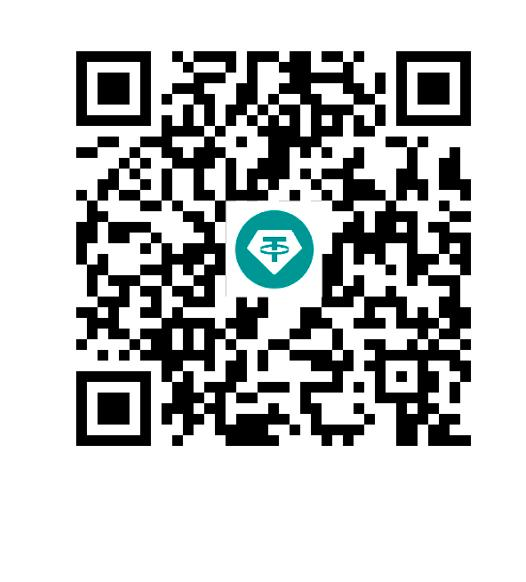
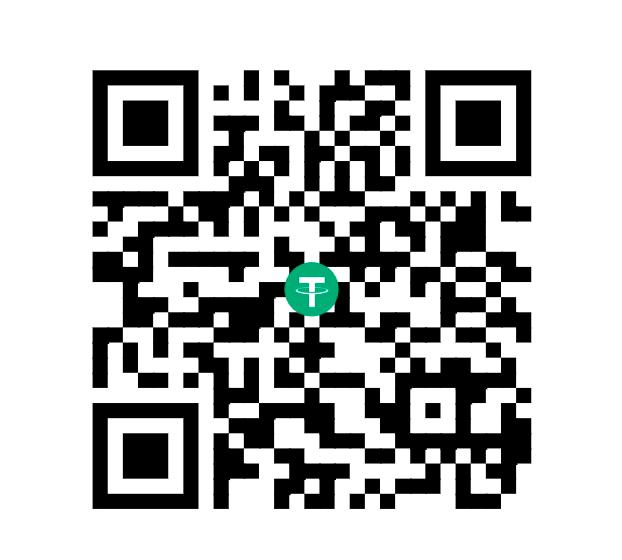
Networks fixed

diff --git a/src/app/recharge/[network]/RechargeClient.jsx b/src/app/recharge/[network]/RechargeClient.jsx
@@ -7,20 +7,20 @@ import RechargeManual from "./RechargeManual";
 // ─── Network config ────────────────────────────────────────────────────────────
 const NETWORK_CONFIG = {
     TRC20: {
-        address: "TFyLapV8rYyp155f7ZQNDxasZhAvFUy8eG",
+        address: "TN2P66cwxLUy9eCJiXFNki3ViRUJ83KC6o",
         logo: "/TRC.png",
         label: "TRC20-USDT",
         color: "text-red-400",
         bg: "bg-red-400/10",
-        qr: "/TR20QR.jpeg",
+        qr: "/TRC20Qr.jpeg",
     },
     BEP20: {
-        address: "0xff2222bd53be58e8900e84e9e7fd54e647cc5d02",
+        address: "0xaeff4606750ad9ac89c3f2b9eada02766ab50977",
         logo: "/TRC.png",          // add your BEP20 logo to /public
         label: "BEP20-USDT",
         color: "text-yellow-400",
         bg: "bg-yellow-400/10",
-        qr: "/Bep20QR.jpeg",       // add your BEP20 QR to /public
+        qr: "/BEP20Qr.jpeg",       // add your BEP20 QR to /public
     },
 };
 

diff --git a/src/app/recharge/[network]/RechargeManual.jsx b/src/app/recharge/[network]/RechargeManual.jsx
@@ -1,21 +1,5 @@
 "use client";
 
-/**
- * RechargeManual — Deposit proof submission form
- * -----------------------------------------------
- * Optimizations applied:
- *  • TX_ID_LENGTH map hoisted outside component (no re-creation per render)
- *  • useId() for stable, SSR-safe form IDs (avoids hydration mismatch)
- *  • maxLength on TX input — browser-level gate, no JS needed
- *  • aria-invalid / aria-describedby wired to every input
- *  • aria-live="polite" error region — screen-reader friendly
- *  • Semantic landmark hierarchy: <header> → <main> → <section> → <form>
- *  • All callbacks wrapped in useCallback / stable references
- *  • No inline object/function literals in JSX props
- *  • Image priority + correct sizes prop for LCP optimisation
- *  • structuredData JSON-LD injected for SEO
- */
-
 import { useState, useRef, useCallback, useId, memo } from "react";
 import Image from "next/image";
 import Script from "next/script";
